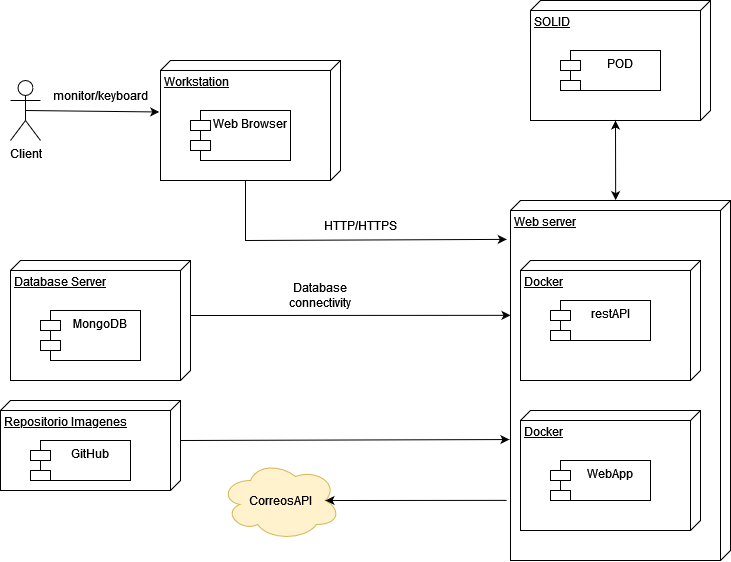
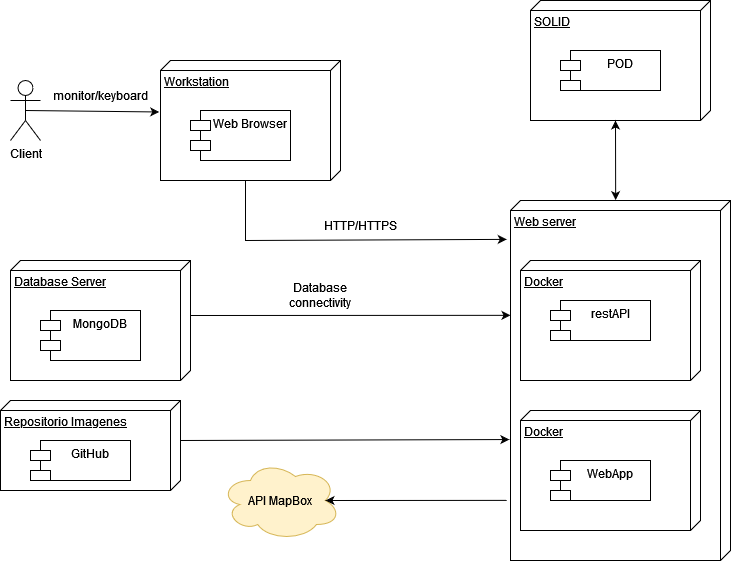
Updates

diff --git a/index.html b/index.html
@@ -471,8 +471,8 @@ body.book #toc,body.book #preamble,body.book h1.sect0,body.book .sect1>h2{page-b
 </li>
 <li><a href="#section-runtime-view">6. Vista de Ejecución</a>
 <ul class="sectlevel2">
-<li><a href="#_proceso_de_login">6.1. Proceso de Login</a></li>
-<li><a href="#_proceso_de_compra">6.2. Proceso de compra</a></li>
+<li><a href="#_proceso_de_compra">6.1. Proceso de compra</a></li>
+<li><a href="#_proceso_de_login">6.2. Proceso de Login</a></li>
 <li><a href="#_cálculo_de_los_gastos_de_envío">6.3. Cálculo de los gastos de envío</a></li>
 <li><a href="#_proceso_de_envío">6.4. Proceso de envío</a></li>
 </ul>
@@ -1055,28 +1055,24 @@ el proceso del desarrollo.</p>
 <h2 id="section-runtime-view">6. Vista de Ejecución</h2>
 <div class="sectionbody">
 <div class="sect2">
-<h3 id="_proceso_de_login">6.1. Proceso de Login</h3>
+<h3 id="_proceso_de_compra">6.1. Proceso de compra</h3>
+<div class="paragraph">
+<p>El primer escenario muestra el proceso de compra de un producto. Para ello,
+el usuario debe conectarse con su cuenta y seleccionar la talla correspondiente para que se añada al carrito de la compra.</p>
+</div>
+<div class="paragraph">
+<p><span class="image"><img src="./images/DiagramaCompra.png" alt="DiagramaCompra"></span></p>
+</div>
+</div>
+<div class="sect2">
+<h3 id="_proceso_de_login">6.2. Proceso de Login</h3>
 <div class="paragraph">
 <p>El segundo escenario muestra el proceso de "Login". Para ello,
 el usuario debe introducir los datos en el formulario, esos datos serán verificados y si son correctos
 volverá a la pantalla de inicio con la sesión iniciada.</p>
 </div>
-<div class="imageblock">
-<div class="content">
-<img src="./images/Login_diagrama.png" alt="Login diagrama" width="642" height="392">
-</div>
-</div>
-</div>
-<div class="sect2">
-<h3 id="_proceso_de_compra">6.2. Proceso de compra</h3>
 <div class="paragraph">
-<p>El primer escenario muestra el proceso de compra de un producto. Para ello,
-el usuario debe conectarse con su cuenta y seleccionar la talla correspondiente para que se añada al carrito de la compra.</p>
-</div>
-<div class="imageblock">
-<div class="content">
-<img src="./images/Compra_diagrama.png" alt="Compra diagrama" width="508" height="374">
-</div>
+<p><span class="image"><img src="./images/DiagramaLogin.JPG" alt="LogIn"></span></p>
 </div>
 </div>
 <div class="sect2">
@@ -1155,11 +1151,11 @@ intentado buscar y comenzar a usar la mejor infraestructura posible.</p>
 <td class="tableblock halign-left valign-top"><p class="tableblock">"Almacenes" para guardar los datos de los usuarios de forma segura.</p></td>
 </tr>
 <tr>
-<td class="tableblock halign-left valign-top"><p class="tableblock">CorreosAPI</p></td>
-<td class="tableblock halign-left valign-top"><p class="tableblock">Usada para simular el envio de un pedido a correos.</p></td>
+<td class="tableblock halign-left valign-top"><p class="tableblock">APIMapBox</p></td>
+<td class="tableblock halign-left valign-top"><p class="tableblock">API para calculo de coordenadas y simulación de envío de paquetes.</p></td>
 </tr>
 <tr>
-<td class="tableblock halign-left valign-top"><p class="tableblock">Github</p></td>
+<td class="tableblock halign-left valign-top"><p class="tableblock">Imgur</p></td>
 <td class="tableblock halign-left valign-top"><p class="tableblock">Será usado un repositorio a parte para guardar las imágenes de los diferentes artículos de la aplicación.</p></td>
 </tr>
 </tbody>
@@ -1366,6 +1362,26 @@ que manejen su propio estado, para convertirlos en interfaces de usuario más co
 <td class="tableblock halign-left valign-top"><p class="tableblock">Un postulado erróneo de éstos diagramas puede dar lugar a una construcción errónea del sistema derivando en cambios cuya dificultad probablemente sea proporcional al tiempo que se haya estado desarrollando el proyecto.</p></td>
 <td class="tableblock halign-left valign-top"><p class="tableblock">Alta</p></td>
 </tr>
+<tr>
+<td class="tableblock halign-left valign-top"><p class="tableblock">Abandono de dos miembros</p></td>
+<td class="tableblock halign-left valign-top"><p class="tableblock">No solo con la implicación que conlleva si no también con el código que hicieron, el cual contenía un montón de errores haciendo que fuese complicado su arreglo.</p></td>
+<td class="tableblock halign-left valign-top"><p class="tableblock">Alta</p></td>
+</tr>
+<tr>
+<td class="tableblock halign-left valign-top"><p class="tableblock">Conocimiento de SOLID</p></td>
+<td class="tableblock halign-left valign-top"><p class="tableblock">Una nueva tecnología con la que ninguno hemos trabajado y de la que no hay mucha información.</p></td>
+<td class="tableblock halign-left valign-top"><p class="tableblock">Media</p></td>
+</tr>
+<tr>
+<td class="tableblock halign-left valign-top"><p class="tableblock">Conocimiento de TypeScript</p></td>
+<td class="tableblock halign-left valign-top"><p class="tableblock">Ninguno de los miembros había realizado uso del lenguaje.</p></td>
+<td class="tableblock halign-left valign-top"><p class="tableblock">Media</p></td>
+</tr>
+<tr>
+<td class="tableblock halign-left valign-top"><p class="tableblock">Fechas límite</p></td>
+<td class="tableblock halign-left valign-top"><p class="tableblock">Tiempo para realizar las implementaciones limitado.</p></td>
+<td class="tableblock halign-left valign-top"><p class="tableblock">Baja</p></td>
+</tr>
 </tbody>
 </table>
 <table class="tableblock frame-all grid-all stretch">
@@ -1462,6 +1478,10 @@ que manejen su propio estado, para convertirlos en interfaces de usuario más co
 <td class="tableblock halign-left valign-top"><p class="tableblock">Material UI</p></td>
 <td class="tableblock halign-left valign-top"><p class="tableblock">MUI ofrece un conjunto integral de herramientas de interfaz de usuario para ayudarlo a enviar nuevas funciones más rápido. <a href="https://mui.com/" class="bare">https://mui.com/</a></p></td>
 </tr>
+<tr>
+<td class="tableblock halign-left valign-top"><p class="tableblock">MapBox</p></td>
+<td class="tableblock halign-left valign-top"><p class="tableblock">API que ofrece servicios de cálculo de rutas de manera precisa y coordenadas. <a href="https://www.mapbox.com/" class="bare">https://www.mapbox.com/</a></p></td>
+</tr>
 </tbody>
 </table>
 <div style="page-break-after: always;"></div>
@@ -1489,7 +1509,7 @@ Created by Dr. Peter Hruschka &amp; Dr. Gernot Starke.</p>
 </div>
 <div id="footer">
 <div id="footer-text">
-Last updated 2022-05-01 17:38:21 +0200
+Last updated 2022-05-02 18:43:12 +0200
 </div>
 </div>
 </body>
